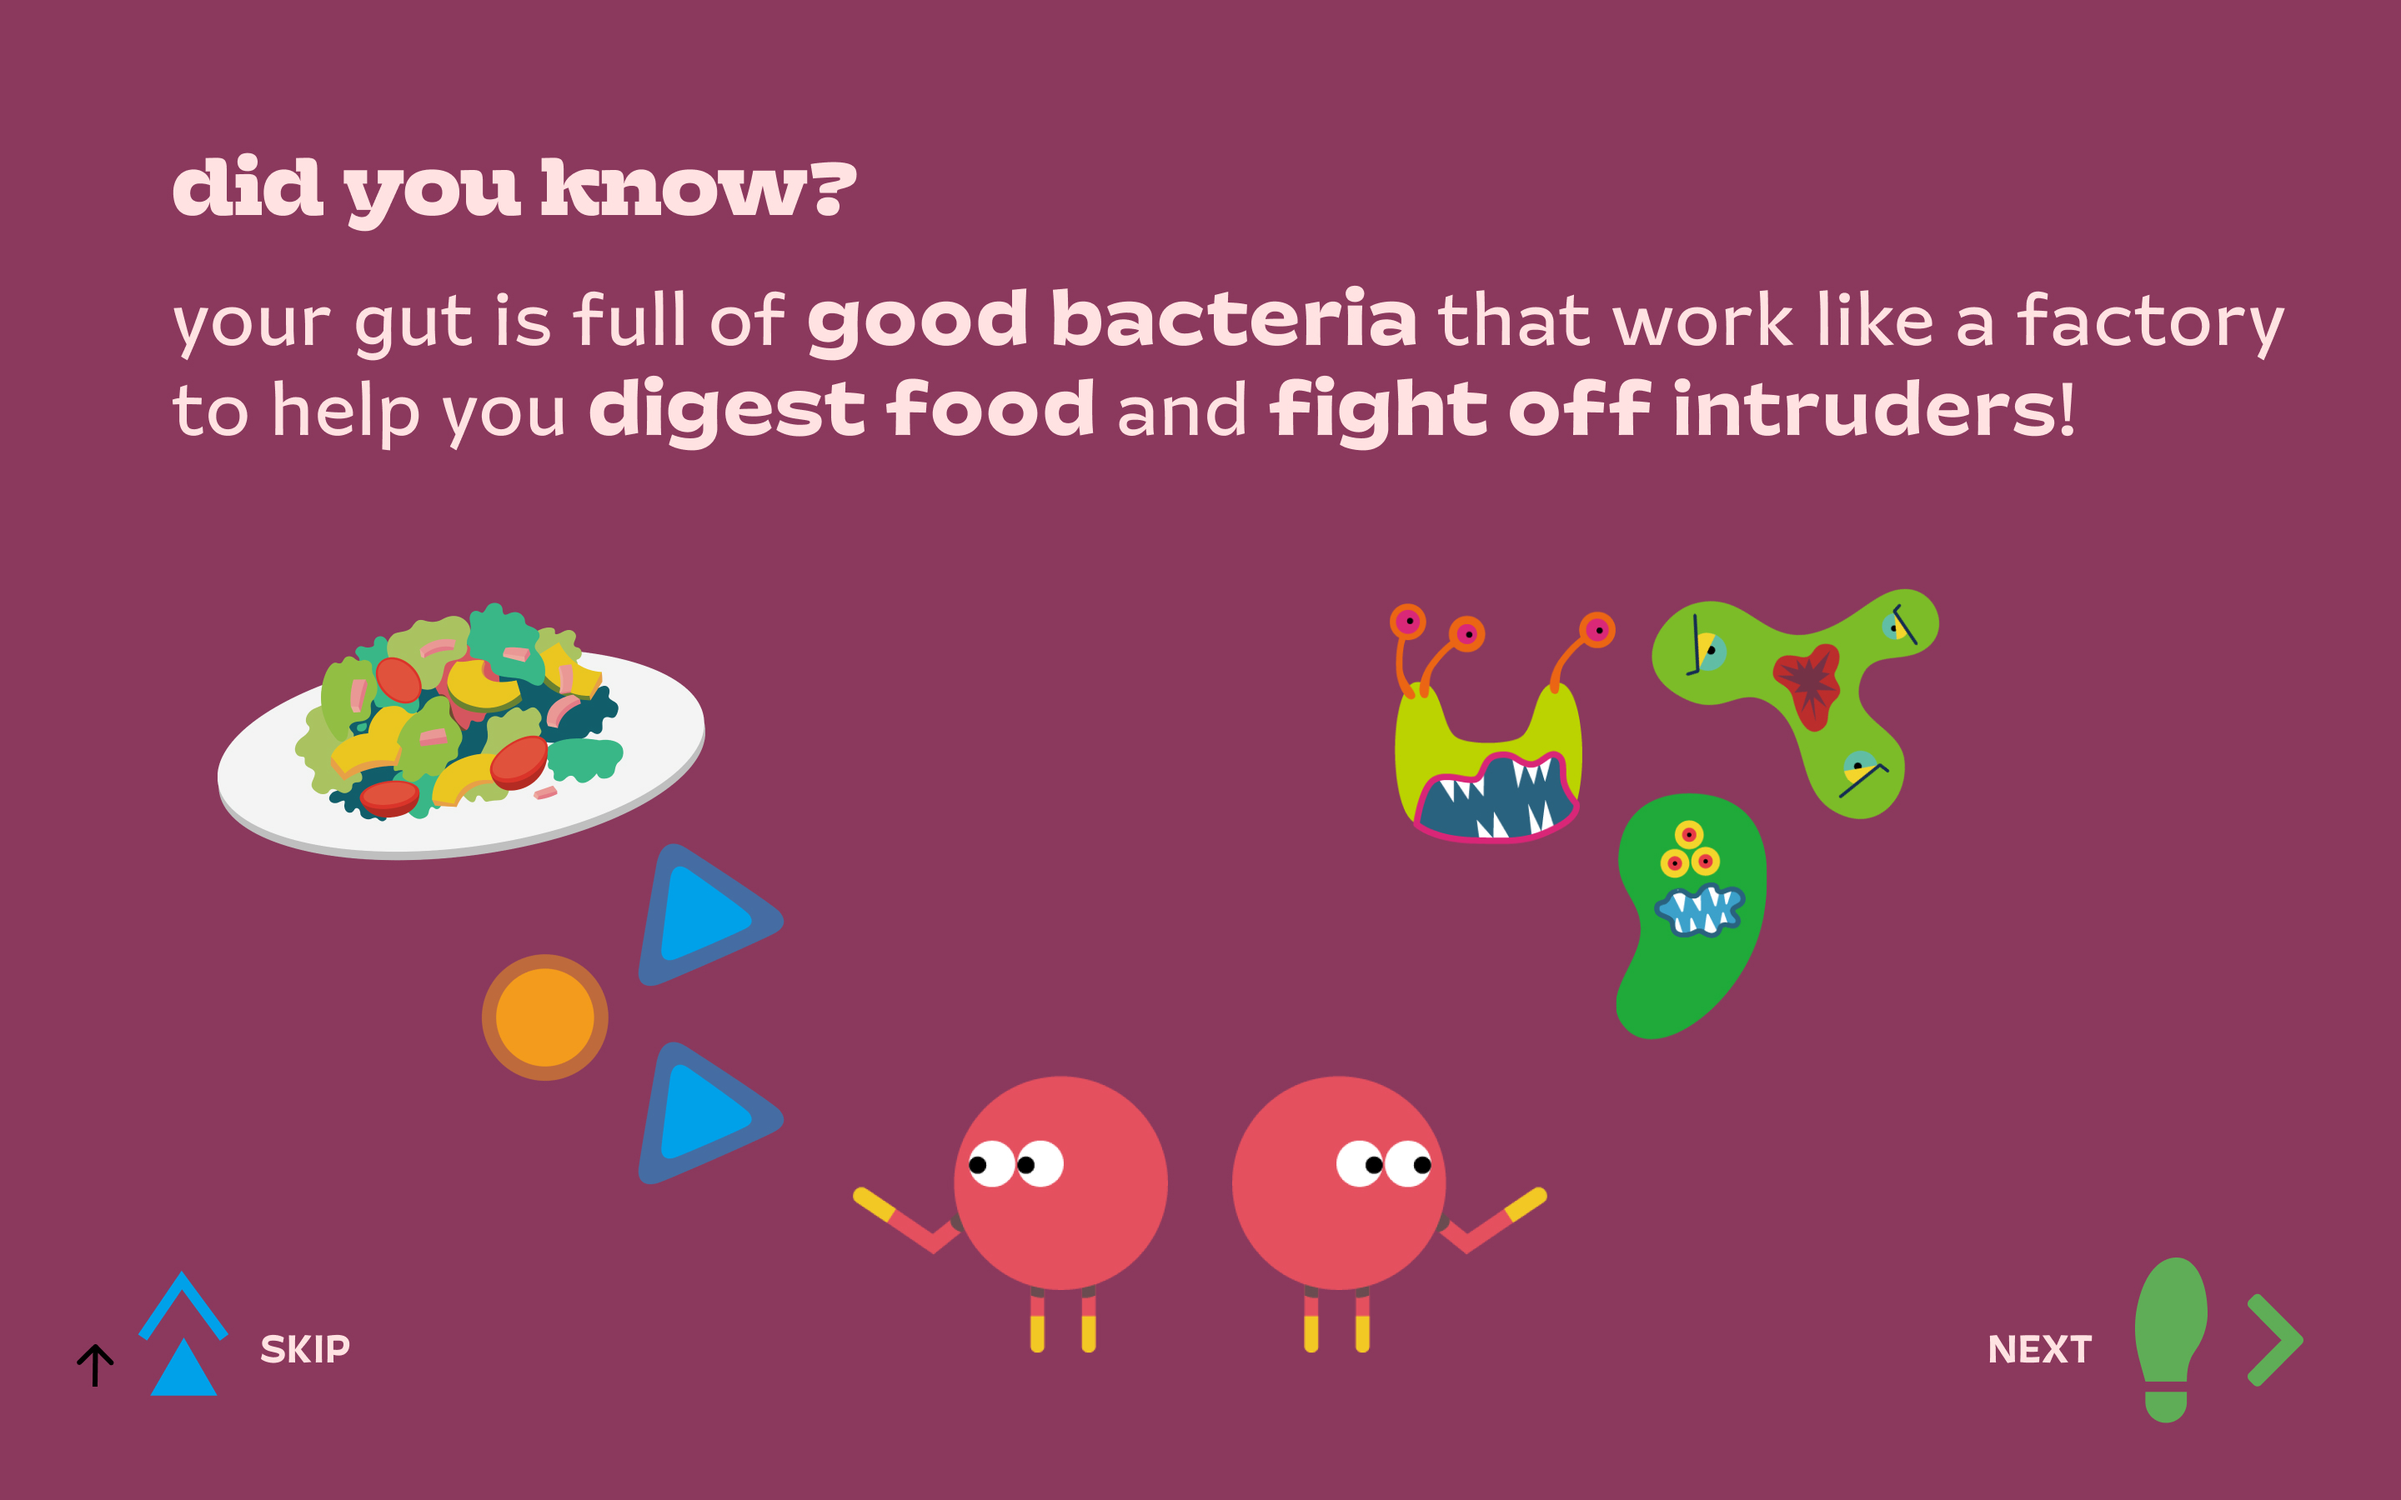
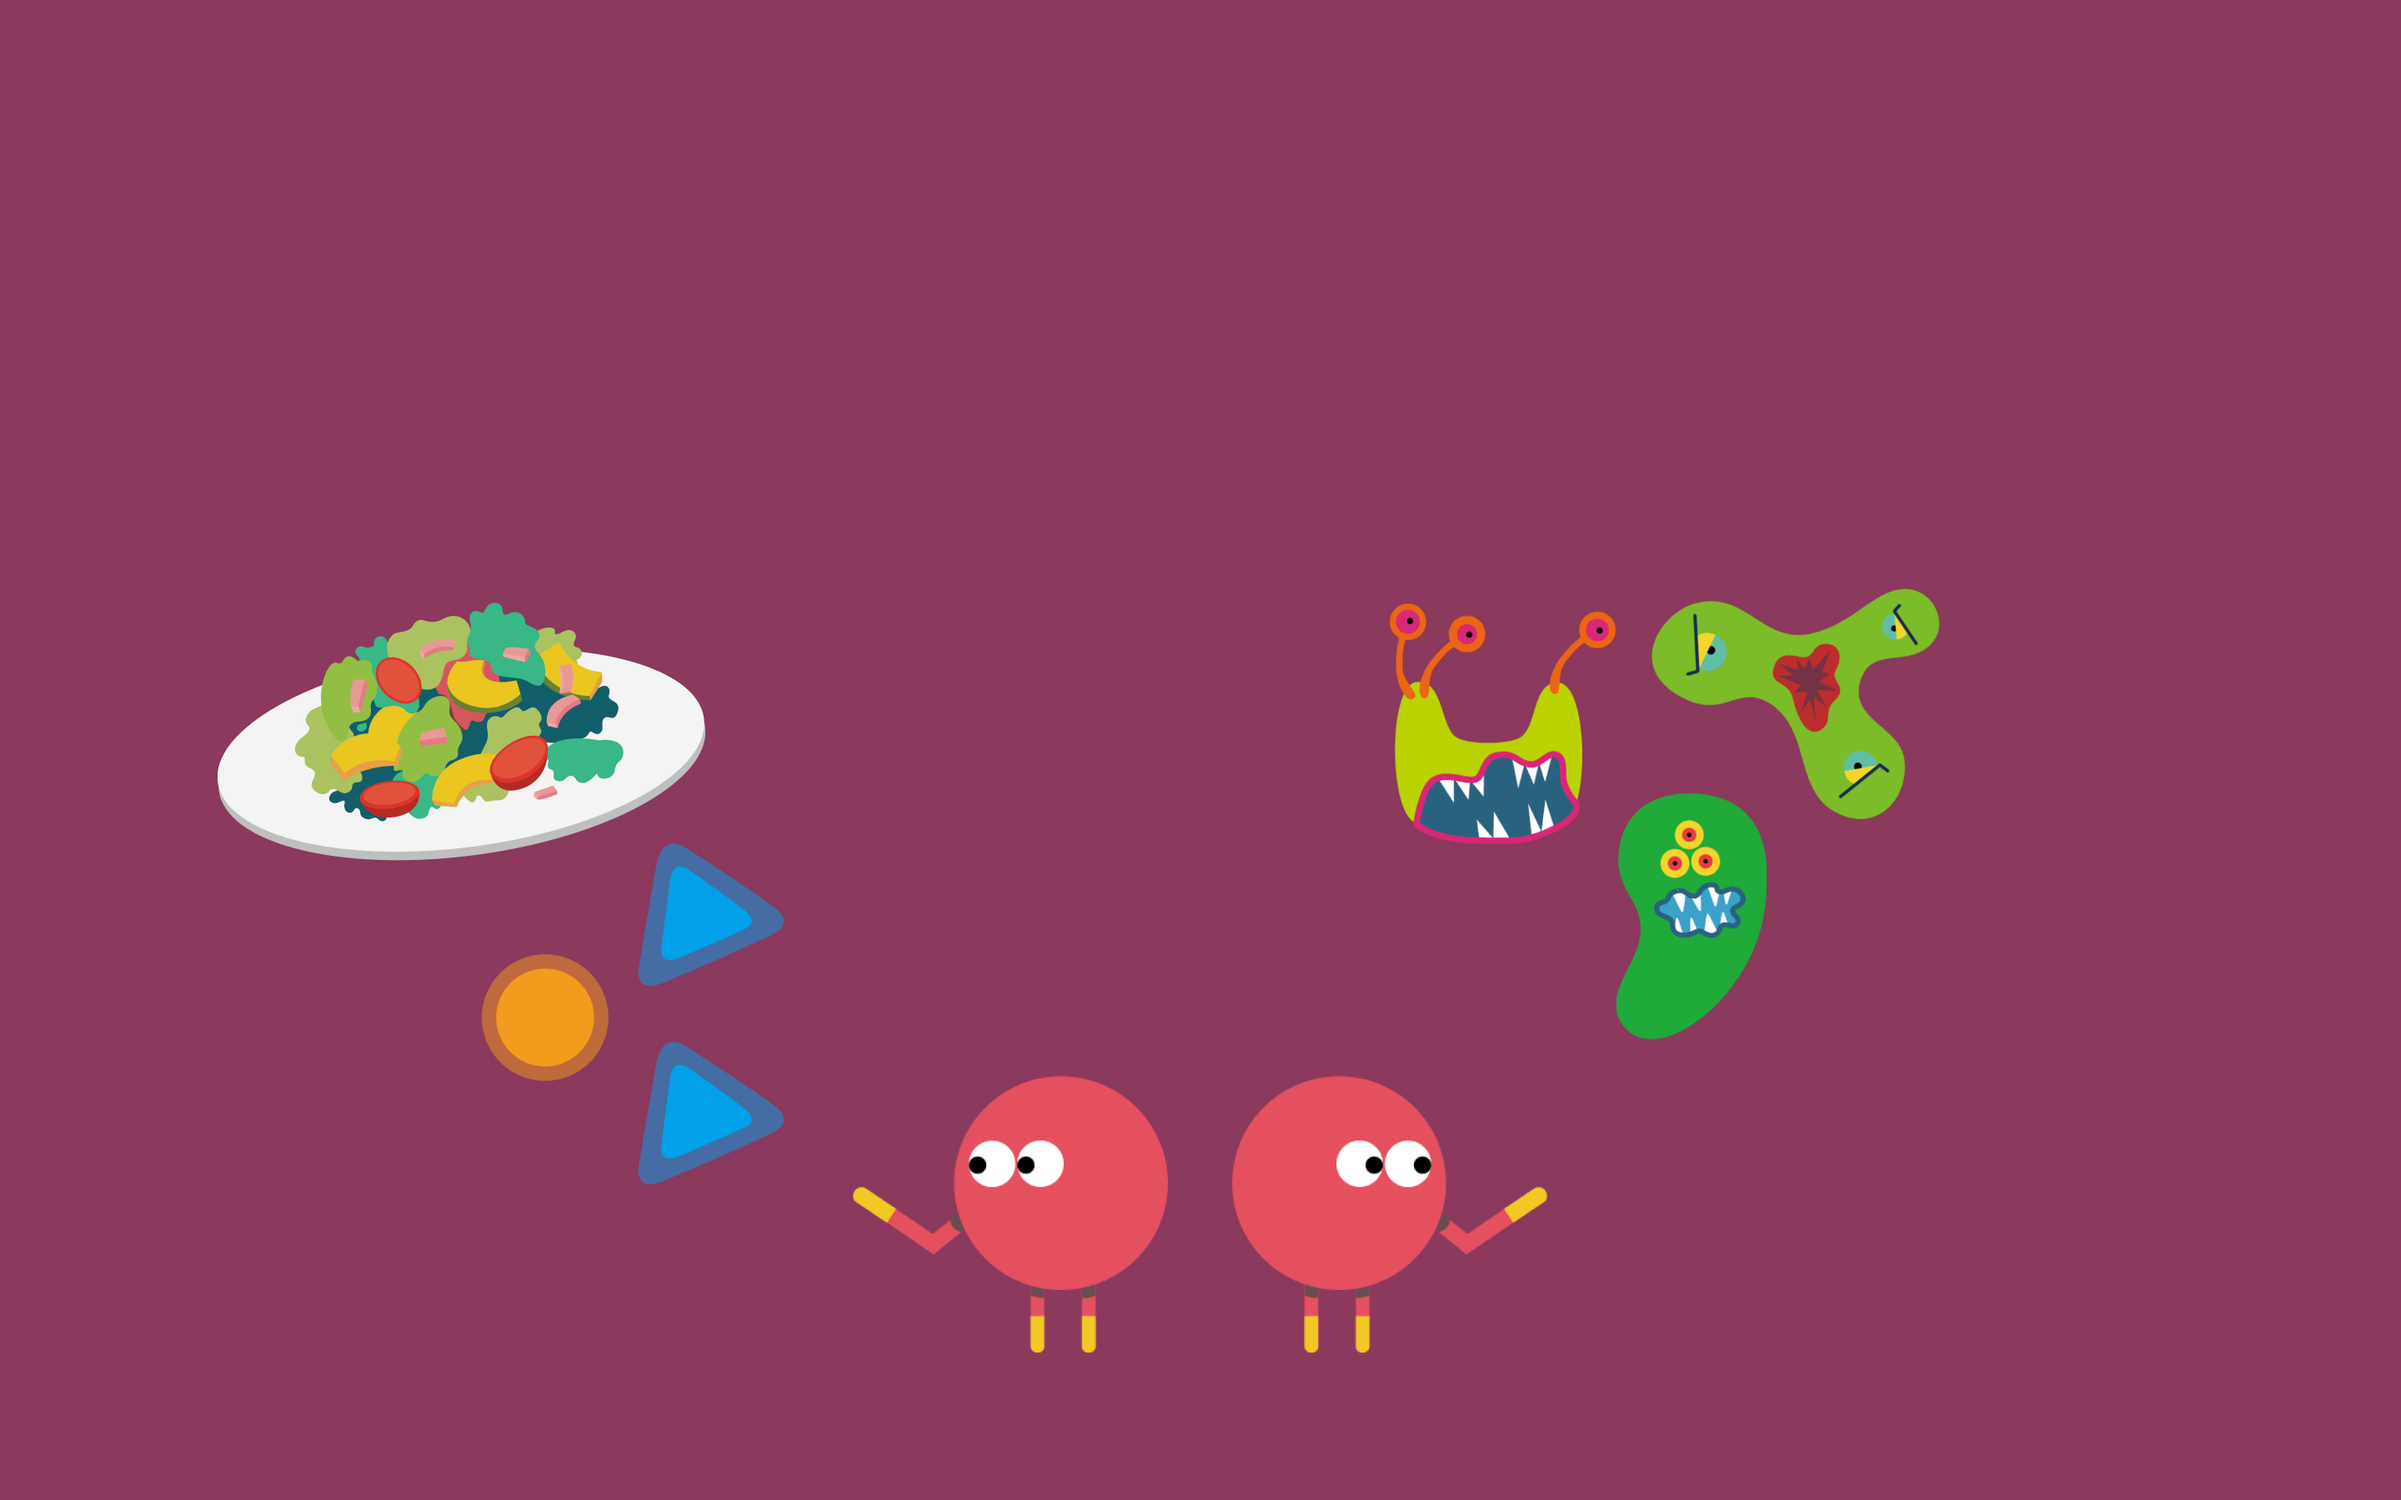
Onboarding added

diff --git a/src/index.css b/src/index.css
@@ -39,33 +39,37 @@
 }
 
 h1 {
+  color: #FFE2E2;
   font-family: "DottiesVanilla-BoldItalic";
   font-size: 137px;
-  line-height: 120%;
+  margin-bottom: 0px;
 }
 
 h2 {
+  color: #FFE2E2;
   font-family: "DottiesVanilla-Regular";
   font-size: 60px;
-  line-height: 120%;
+  margin-bottom: 0px;
 }
 
 h3 {
+  color: #FFE2E2;
   font-family: "DottiesVanilla-Regular";
-  font-size: 46px;
-  line-height: 120%;
+  font-size: 54px;
+  margin-bottom: 0px;
 }
 
 h4 {
-  font-family: "DottiesVanilla-Regular";
-  font-size: 30px;
-  line-height: 120%;
+  color: #FFE2E2;
+  font-family: "DottiesVanilla-Heavy";
+  font-size: 32px;
+  margin-bottom: 0px;
 }
 
 p {
   color: #FFE2E2;
-  font-family: "DottiesVanilla-Bold";
-  font-size: 24px;
+  font-family: "DottiesVanilla-Light";
+  font-size: 32px;
   line-height: 120%;
 }
 
@@ -73,6 +77,12 @@ body, html {
   background-color: #8B395D;
   height: 100%;
   margin: 0;
+}
+
+img {
+  width: 100%;
+  height: 95%;
+  display: flex;
 }
 
 .bg {
@@ -98,18 +108,21 @@ body, html {
   display: flex;
   align-content: left;
   flex-direction: row;
-  margin-top: 48%;
-  margin-left: 76%;
+  position: absolute;
+  left: 72%;
+  bottom: 4%;
   background: none;
   border: none;
 }
 
 .wrapper {
-  width: innerWidth
-  height: innerHeight;
-  display: flex;
-  flex-direction: row-reverse;
-  align-content: right;
+  width: 100%;
+  height: 100%;
+  background-position: center;
+  background-repeat: no-repeat;
+  background-size: cover;
+  display: none;
+  align-content: center;
   margin-left: 50px;
   margin-right: 30px;
 }
@@ -120,6 +133,41 @@ body, html {
   background-repeat: no-repeat;
   background-size: cover;
   background-image: url("../assets/backgroundmain.jpg");
+}
+
+.onboarding {
+  width: 100%;
+  margin-top: 50px;
+  margin-left: 200px;
+  margin-right: 200px;
+  display: none;
+  background-position: center;
+  background-repeat: no-repeat;
+  background-size: cover;
+  flex-direction: column;
+}
+
+#onboarding1 {
+  background-position: center;
+  background-repeat: no-repeat;
+  background-size: cover;
+  background-image: url("../assets/onboarding-1.jpg");
+}
+
+#onboarding2 {
+  background-position: center;
+  background-repeat: no-repeat;
+  background-size: cover;
+  display: none;
+  background-image: url("../assets/onboarding-2.jpg");
+}
+
+#onboarding3 {
+  background-position: center;
+  background-repeat: no-repeat;
+  background-size: cover;
+  display: none;
+  background-image: url("../assets/onboarding-3.jpg");
 }
 
 #stompContinue {

diff --git a/src/index.js b/src/index.js
@@ -1,23 +1,22 @@
+var currentScreen = document.getElementById("onboarding1");
 
-function plusDivs(n) {
-  showDivs(slideIndex += n);
+function showFirstPage() {
+  currentScreen = document.getElementById("onboarding1");
+  currentScreen.style.display = "flex";
+  var wrapperDiv = document.getElementById("onboardingWrapper");
+  wrapperDiv.style.display = "flex";
 }
 
-function showDivs(n) {
-  var i;
-  var x = document.getElementsByClassName("onboarding");
-  if (n > x.length) {slideIndex = 1}
-  if (n < 1) {slideIndex = x.length} ;
-  for (i = 0; i < x.length; i++) {
-    x[i].style.display = "none";
-  }
-  x[slideIndex-1].style.display = "flex";
+function showSecondPage() {
+  currentScreen.style.display = "none";
+  currentScreen = document.getElementById("onboarding2");
+  currentScreen.style.display = "flex";
+  var wrapperDiv = document.getElementById("onboardingWrapper");
+  wrapperDiv.style.display = "flex";
 }
 
 function startClicked(){
-  //var slideIndex = 1;
-  //showDivs(slideIndex);
   var oldBg = document.getElementById("mainMenuDiv");
-  console.log(oldBg);
   oldBg.style.display = "none";
+  showFirstPage();
 }

diff --git a/src/index.html b/src/index.html
@@ -20,16 +20,24 @@
           </div>
       </button>
     </div>
-    <!--<div class="wrapper">
+
+    <div class="wrapper" id="onboardingWrapper">
       <div id="onboarding1" class="onboarding">
-        <img src="../assets/onboarding-1.jpg">
+        <h4>did you know?</h4>
+        <p>your gut is full of <strong>good bacteria</strong> that work like a factory to help you <strong>digest food</strong>
+          and <strong>fight off</strong> intruders!</p>
+          <button class="continueButton" onclick="showSecondPage()">
+              <div id="stompContinueButton" class="buttonStyle">
+                <p>NEXT</p>
+                <img id="stompContinue" src="../assets/stomp-continue.png">
+              </div>
+          </button>
       </div>
       <div id="onboarding2" class="onboarding">
-        <img src="../assets/onboarding-2.jpg">
       </div>
       <div id="onboarding3" class="onboarding">
         <img src="../assets/onboarding-3.jpg">
       </div>
-    </div>-->
+    </div>
   </body>
 </html>

diff --git a/src/game.html b/src/game.html
@@ -1,0 +1,26 @@
+<!DOCTYPE html>
+<html>
+  <head>
+    <link rel="stylesheet" type="text/css" href="style.css" />
+    <link
+      rel="stylesheet"
+      href="https://cdnjs.cloudflare.com/ajax/libs/flexboxgrid/6.3.1/flexboxgrid.min.css"
+      type="text/css"
+    />
+    <script src="../lib/p5.js"></script>
+    <script src="../lib/p5.collide2d.js"></script>
+    <script src="../lib/p5.play.js"></script>
+    <script src="../lib/p5.sound.js"></script>
+    <script src="../lib/p5.dom.min.js"></script>
+    <script src="../lib/p5.serialport.js"></script>
+    <script src="./sketch.js"></script>
+    <script src="./ship.js"></script>
+    <script src="./particle.js"></script>
+    <script src="./lazer.js"></script>
+    <script src="./apple.js"></script>
+    <meta charset="utf-8">
+  </head>
+  <body>
+    <div id="myCanvas"></div>
+  </body>
+</html>

diff --git a/src/style.css b/src/style.css
@@ -1,7 +1,7 @@
-/*@font-face {
+@font-face {
   font-family: "CirceRounded";
   src: url("../fonts/CirceRounded.otf");
-}*/
+}
 
 #myCanvas {
   position: absolute;
